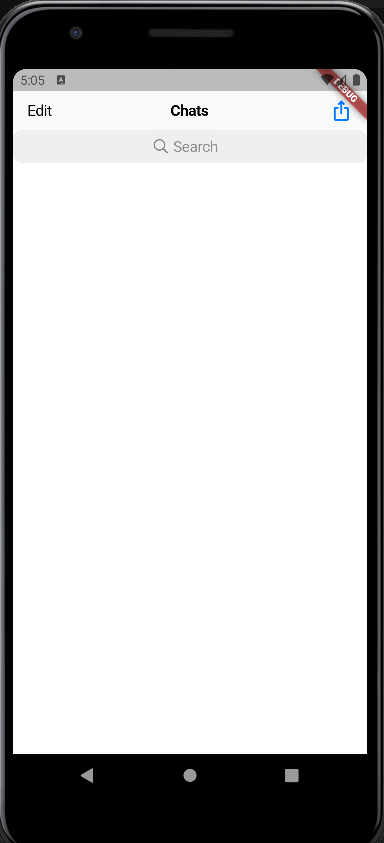
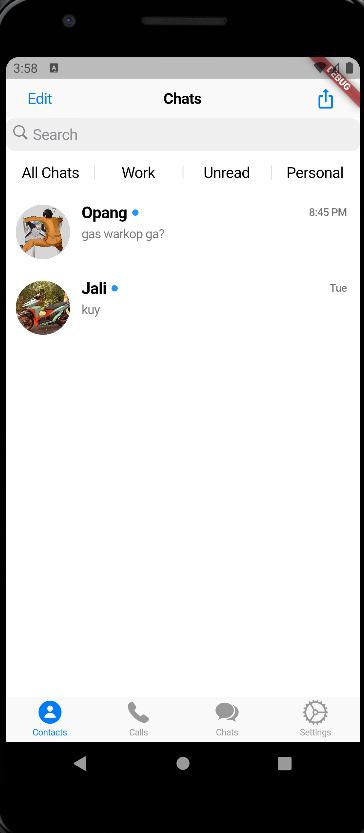
Cuppertino

Changed region(s): [[0.0, 0.0, 1.0, 1.0], [0.5742, 0.1873, 0.6951, 0.2185]]

diff --git a/12_Platform Widget/praktikum/flutter_cupertino/flutter_cupertino/lib/Interface/home_page.dart b/12_Platform Widget/praktikum/flutter_cupertino/flutter_cupertino/lib/Interface/home_page.dart
@@ -1,5 +1,7 @@
 import 'package:flutter/cupertino.dart';
 import 'package:flutter/material.dart';
+import 'package:flutter_cupertino/Model/user.dart';
+import 'package:flutter_cupertino/Model/message.dart';
 
 class HomePage extends StatefulWidget {
   const HomePage({Key? key}) : super(key: key);
@@ -9,37 +11,174 @@ class HomePage extends StatefulWidget {
 }
 
 class _HomePageState extends State<HomePage> {
+  final Map<int, Widget> tab = const <int, Widget>{
+    0: Text('All Chats'),
+    1: Text('Work'),
+    2: Text('Unread'),
+    3: Text('Personal'),
+  };
   @override
   Widget build(BuildContext context) {
-    return CupertinoPageScaffold(
-      navigationBar: CupertinoNavigationBar(
-        leading: Align(
-          widthFactor: 1.0,
-          alignment: Alignment.center,
-          child: Text('Edit'),
-        ),
-        middle: Text(
-          'Chats',
-          style: TextStyle(fontWeight: FontWeight.bold),
-        ),
-        trailing: Align(
-          widthFactor: 1.0,
-          alignment: Alignment.center,
-          child: Icon(
-            Icons.ios_share,
-            size: 25,
+    List<Widget> _tabs = [];
+    return CupertinoTabScaffold(
+      tabBar: CupertinoTabBar(
+        items: const [
+          BottomNavigationBarItem(
+            icon: Icon(CupertinoIcons.person_circle_fill),
+            label: 'Contacts',
           ),
-        ),
-      ),
-      child: SafeArea(
-        child: Container(
-          child: Column(
-            children: [
-              CupertinoSearchTextField(),
-            ],
+          BottomNavigationBarItem(
+            icon: Icon(CupertinoIcons.phone_fill),
+            label: 'Calls',
           ),
-        ),
+          BottomNavigationBarItem(
+            icon: Icon(CupertinoIcons.chat_bubble_2_fill),
+            label: 'Chats',
+          ),
+          BottomNavigationBarItem(
+            icon: Icon(CupertinoIcons.settings_solid),
+            label: 'Settings',
+          ),
+        ],
       ),
+      tabBuilder: (context, i) {
+        return CupertinoTabView(builder: (context) {
+          return CupertinoPageScaffold(
+            navigationBar: CupertinoNavigationBar(
+              leading: Align(
+                widthFactor: 1.0,
+                alignment: Alignment.center,
+                child: CupertinoButton(
+                  child: Text('Edit'),
+                  onPressed: () => null,
+                  padding: EdgeInsets.zero,
+                ),
+              ),
+              middle: Text(
+                'Chats',
+                style: TextStyle(fontWeight: FontWeight.bold),
+              ),
+              trailing: CupertinoButton(
+                child: Icon(Icons.ios_share_rounded),
+                onPressed: () => null,
+                padding: EdgeInsets.zero,
+              ),
+            ),
+            child: SafeArea(
+              child: Container(
+                child: Column(
+                  children: [
+                    CupertinoSearchTextField(),
+                    Container(
+                      width: double.infinity,
+                      child: CupertinoSlidingSegmentedControl(
+                        padding: EdgeInsets.symmetric(
+                            horizontal: 1.0, vertical: 10.0),
+                        backgroundColor: Colors.white,
+                        children: tab,
+                        onValueChanged: (value) {
+                          setState(() {});
+                        },
+                      ),
+                    ),
+                    Expanded(
+                      child: ListView.builder(
+                        itemCount: chats.length,
+                        itemBuilder: (BuildContext context, int index) {
+                          final Message chat = chats[index];
+                          return GestureDetector(
+                            onTap: () => null,
+                            child: Container(
+                              padding: const EdgeInsets.symmetric(
+                                horizontal: 10,
+                                vertical: 10,
+                              ),
+                              child: Row(
+                                children: <Widget>[
+                                  Container(
+                                    padding: EdgeInsets.all(1),
+                                    child: CircleAvatar(
+                                      radius: 30,
+                                      backgroundImage:
+                                          AssetImage(chat.sender.imageUrl),
+                                    ),
+                                  ),
+                                  Container(
+                                    width: MediaQuery.of(context).size.width *
+                                        0.78,
+                                    padding: const EdgeInsets.only(
+                                      left: 12,
+                                      bottom: 22,
+                                    ),
+                                    child: Column(
+                                      children: <Widget>[
+                                        Row(
+                                          mainAxisAlignment:
+                                              MainAxisAlignment.spaceBetween,
+                                          children: <Widget>[
+                                            Row(
+                                              children: [
+                                                Text(
+                                                  chat.sender.name,
+                                                  style: const TextStyle(
+                                                      fontSize: 18,
+                                                      fontWeight:
+                                                          FontWeight.bold),
+                                                ),
+                                                Container(
+                                                  margin: const EdgeInsets.only(
+                                                      left: 5),
+                                                  width: 7,
+                                                  height: 7,
+                                                  decoration: BoxDecoration(
+                                                    shape: BoxShape.circle,
+                                                    color: Theme.of(context)
+                                                        .primaryColor,
+                                                  ),
+                                                )
+                                              ],
+                                            ),
+                                            Text(
+                                              chat.time,
+                                              style: const TextStyle(
+                                                  fontSize: 12,
+                                                  fontWeight: FontWeight.w600,
+                                                  color: Colors.black54),
+                                            ),
+                                          ],
+                                        ),
+                                        const SizedBox(
+                                          height: 5,
+                                        ),
+                                        Container(
+                                          alignment: Alignment.topLeft,
+                                          child: Text(
+                                            chat.text,
+                                            style: const TextStyle(
+                                              fontSize: 14,
+                                              color: Colors.black54,
+                                            ),
+                                            overflow: TextOverflow.ellipsis,
+                                            maxLines: 1,
+                                          ),
+                                        ),
+                                      ],
+                                    ),
+                                  )
+                                ],
+                              ),
+                            ),
+                          );
+                        },
+                      ),
+                    ),
+                  ],
+                ),
+              ),
+            ),
+          );
+        });
+      },
     );
   }
 }

diff --git a/12_Platform Widget/praktikum/flutter_cupertino/flutter_cupertino/lib/Model/message.dart b/12_Platform Widget/praktikum/flutter_cupertino/flutter_cupertino/lib/Model/message.dart
@@ -1,0 +1,56 @@
+import 'package:flutter_cupertino/model/user.dart';
+
+class Message {
+  final User sender;
+  final String time;
+  final String text;
+  final bool unread;
+
+  Message({
+    required this.sender,
+    required this.time,
+    required this.text,
+    required this.unread,
+  });
+}
+
+List<Message> chats = [
+  Message(
+    sender: currentUser,
+    time: '8:45 PM',
+    text: 'gas warkop ga?',
+    unread: true,
+  ),
+  Message(
+    sender: Jali,
+    time: 'Tue',
+    text: 'kuy',
+    unread: true,
+  ),
+];
+
+class MessageGroup {
+  final UserGroup senderGroup;
+  final String time;
+  final String sender;
+  final String text;
+  final bool unread;
+
+  MessageGroup({
+    required this.senderGroup,
+    required this.time,
+    required this.sender,
+    required this.text,
+    required this.unread,
+  });
+}
+
+List<MessageGroup> chatsGroup = [
+  MessageGroup(
+    senderGroup: sedate,
+    time: '8:45 AM',
+    sender: 'Rojali',
+    text: 'besok jadi ?',
+    unread: true,
+  ),
+];

diff --git a/12_Platform Widget/praktikum/flutter_cupertino/flutter_cupertino/lib/Model/user.dart b/12_Platform Widget/praktikum/flutter_cupertino/flutter_cupertino/lib/Model/user.dart
@@ -1,0 +1,53 @@
+import 'package:flutter/material.dart';
+
+class User {
+  final int id;
+  final String name;
+  final String imageUrl;
+  final bool isOnline;
+
+  User({
+    required this.id,
+    required this.name,
+    required this.imageUrl,
+    required this.isOnline,
+  });
+}
+
+final User currentUser = User(
+  id: 0,
+  name: 'Opang',
+  imageUrl: 'assets/kabedon.png',
+  isOnline: true,
+);
+
+final User Jali = User(
+  id: 1,
+  name: 'Jali',
+  imageUrl: 'assets/jamet.jpeg',
+  isOnline: true,
+);
+
+class UserGroup {
+  final int id;
+  final IconData icon;
+  final String name;
+  final String imageUrl;
+  final bool isOnline;
+
+  UserGroup({
+    required this.id,
+    required this.icon,
+    required this.name,
+    required this.imageUrl,
+    required this.isOnline,
+  });
+}
+
+final UserGroup sedate = UserGroup(
+  id: 0,
+  icon: Icons.group,
+  name: 'Sedate Grup',
+  imageUrl: 'assets/logo.png',
+  isOnline: true,
+);

diff --git a/12_Platform Widget/praktikum/flutter_cupertino/flutter_cupertino/lib/Interface/nav_bar.dart b/12_Platform Widget/praktikum/flutter_cupertino/flutter_cupertino/lib/Interface/nav_bar.dart
@@ -1,0 +1,37 @@
+import 'package:flutter/cupertino.dart';
+import 'package:flutter/material.dart';
+
+class NavBar extends StatefulWidget with PreferredSizeWidget {
+  const NavBar({Key? key}) : super(key: key);
+
+  @override
+  State<NavBar> createState() => _NavBarState();
+
+  @override
+  Size get preferredSize => Size.fromHeight(kToolbarHeight);
+}
+
+class _NavBarState extends State<NavBar> {
+  @override
+  Widget build(BuildContext context) {
+    return CupertinoNavigationBar(
+      leading: Align(
+        widthFactor: 1.0,
+        alignment: Alignment.center,
+        child: Text('Edit'),
+      ),
+      middle: Text(
+        'Chats',
+        style: TextStyle(fontWeight: FontWeight.bold),
+      ),
+      trailing: Align(
+        widthFactor: 1.0,
+        alignment: Alignment.center,
+        child: Icon(
+          Icons.ios_share,
+          size: 25,
+        ),
+      ),
+    );
+  }
+}

diff --git a/12_Platform Widget/praktikum/flutter_cupertino/flutter_cupertino/test/widget_test.dart b/12_Platform Widget/praktikum/flutter_cupertino/flutter_cupertino/test/widget_test.dart
@@ -13,7 +13,7 @@ import 'package:flutter_cupertino/main.dart';
 void main() {
   testWidgets('Counter increments smoke test', (WidgetTester tester) async {
     // Build our app and trigger a frame.
-    // await tester.pumpWidget(const MyApp());
+    await tester.pumpWidget(MyApp());
 
     // Verify that our counter starts at 0.
     expect(find.text('0'), findsOneWidget);
